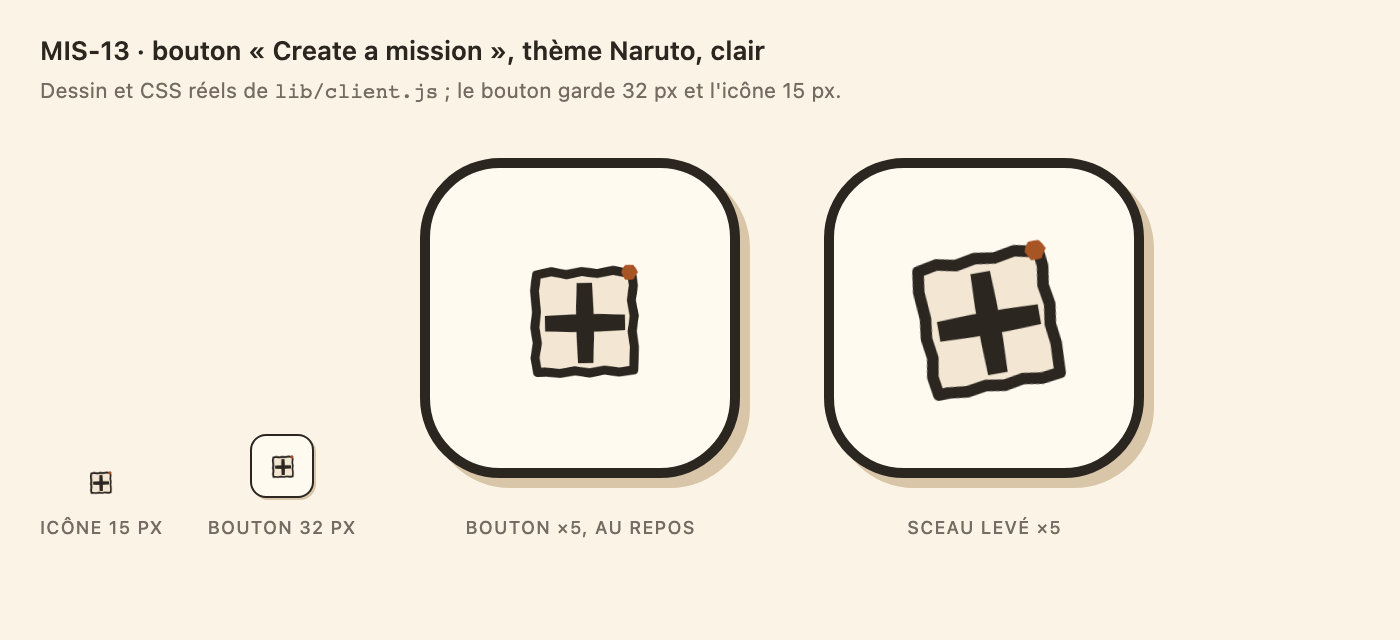
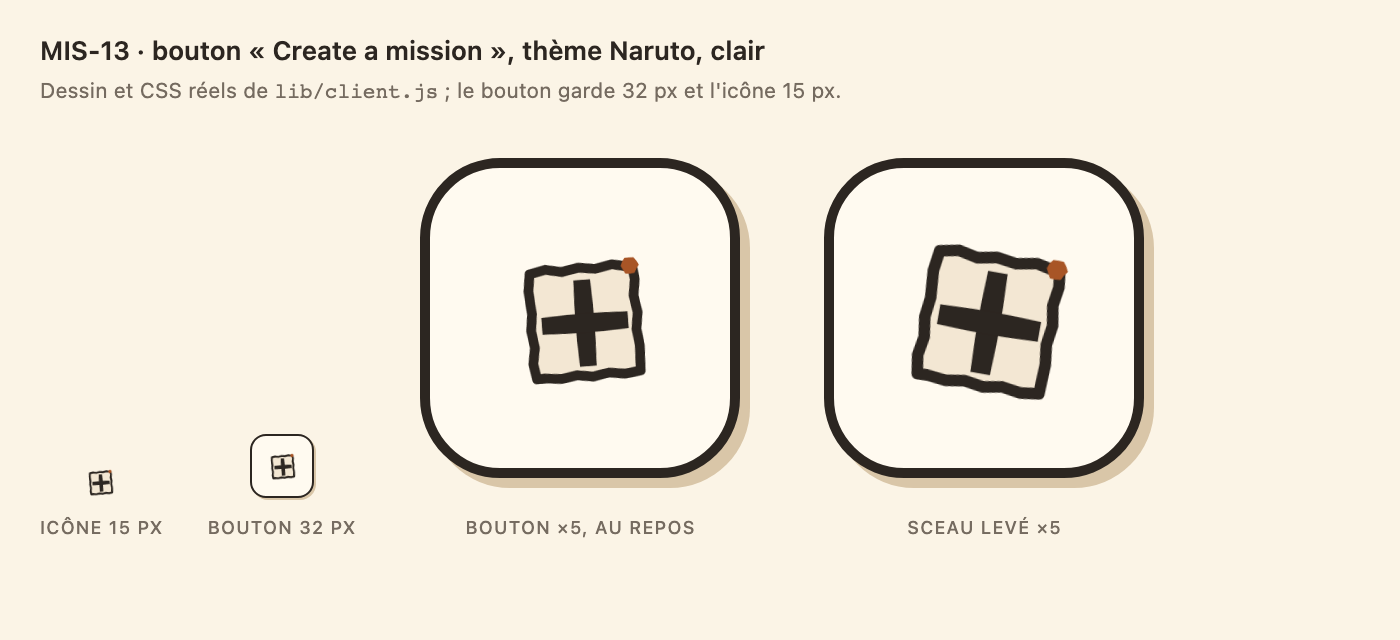
MIS-13: fluidifier le sceau sans temps mort

diff --git a/lib/client.js b/lib/client.js
@@ -2787,15 +2787,13 @@ window.__ModuleLoader__.load({
 @media (prefers-reduced-motion: reduce) { .missions-icon-shuriken { animation: none; } }
 .missions-icon-seal { animation: missions-seal-stamp 6s ease-in-out infinite; transform-box: view-box; transform-origin: center; overflow: visible; }
 @keyframes missions-seal-stamp {
-  0% { transform: scale(1) rotate(0deg); }
-  11%, 16% { transform: scale(1.32) rotate(-10deg); }
-  22% { transform: scale(1) rotate(0deg); }
-  23% { transform: scale(.95) rotate(0deg); }
-  24.5%, 50% { transform: scale(1) rotate(0deg); }
-  61%, 66% { transform: scale(1.32) rotate(10deg); }
-  72% { transform: scale(1) rotate(0deg); }
-  73% { transform: scale(.95) rotate(0deg); }
-  74.5%, 100% { transform: scale(1) rotate(0deg); }
+  0% { transform: scale(1.32) rotate(-10deg); }
+  6% { transform: scale(.95) rotate(0deg); }
+  12% { transform: scale(1) rotate(0deg); }
+  50% { transform: scale(1.32) rotate(10deg); }
+  56% { transform: scale(.95) rotate(0deg); }
+  62% { transform: scale(1) rotate(0deg); }
+  100% { transform: scale(1.32) rotate(-10deg); }
 }
 @media (prefers-reduced-motion: reduce) { .missions-icon-seal { animation: none; } }
 .missions-search { flex: 1 1 240px; display: flex; align-items: center; gap: 8px; height: 32px; padding: 0 11px; border: 1px solid var(--dsw-alias-border-l2, rgba(0,0,0,.12)); border-radius: 8px; background: var(--dsw-alias-bg-layer-1, #ffffff); color: var(--dsw-alias-label-tertiary, #7a7168); }

diff --git a/src/client.template.js b/src/client.template.js
@@ -437,15 +437,13 @@ window.__ModuleLoader__.load({
 @media (prefers-reduced-motion: reduce) { .missions-icon-shuriken { animation: none; } }
 .missions-icon-seal { animation: missions-seal-stamp 6s ease-in-out infinite; transform-box: view-box; transform-origin: center; overflow: visible; }
 @keyframes missions-seal-stamp {
-  0% { transform: scale(1) rotate(0deg); }
-  11%, 16% { transform: scale(1.32) rotate(-10deg); }
-  22% { transform: scale(1) rotate(0deg); }
-  23% { transform: scale(.95) rotate(0deg); }
-  24.5%, 50% { transform: scale(1) rotate(0deg); }
-  61%, 66% { transform: scale(1.32) rotate(10deg); }
-  72% { transform: scale(1) rotate(0deg); }
-  73% { transform: scale(.95) rotate(0deg); }
-  74.5%, 100% { transform: scale(1) rotate(0deg); }
+  0% { transform: scale(1.32) rotate(-10deg); }
+  6% { transform: scale(.95) rotate(0deg); }
+  12% { transform: scale(1) rotate(0deg); }
+  50% { transform: scale(1.32) rotate(10deg); }
+  56% { transform: scale(.95) rotate(0deg); }
+  62% { transform: scale(1) rotate(0deg); }
+  100% { transform: scale(1.32) rotate(-10deg); }
 }
 @media (prefers-reduced-motion: reduce) { .missions-icon-seal { animation: none; } }
 .missions-search { flex: 1 1 240px; display: flex; align-items: center; gap: 8px; height: 32px; padding: 0 11px; border: 1px solid var(--dsw-alias-border-l2, rgba(0,0,0,.12)); border-radius: 8px; background: var(--dsw-alias-bg-layer-1, #ffffff); color: var(--dsw-alias-label-tertiary, #7a7168); }
